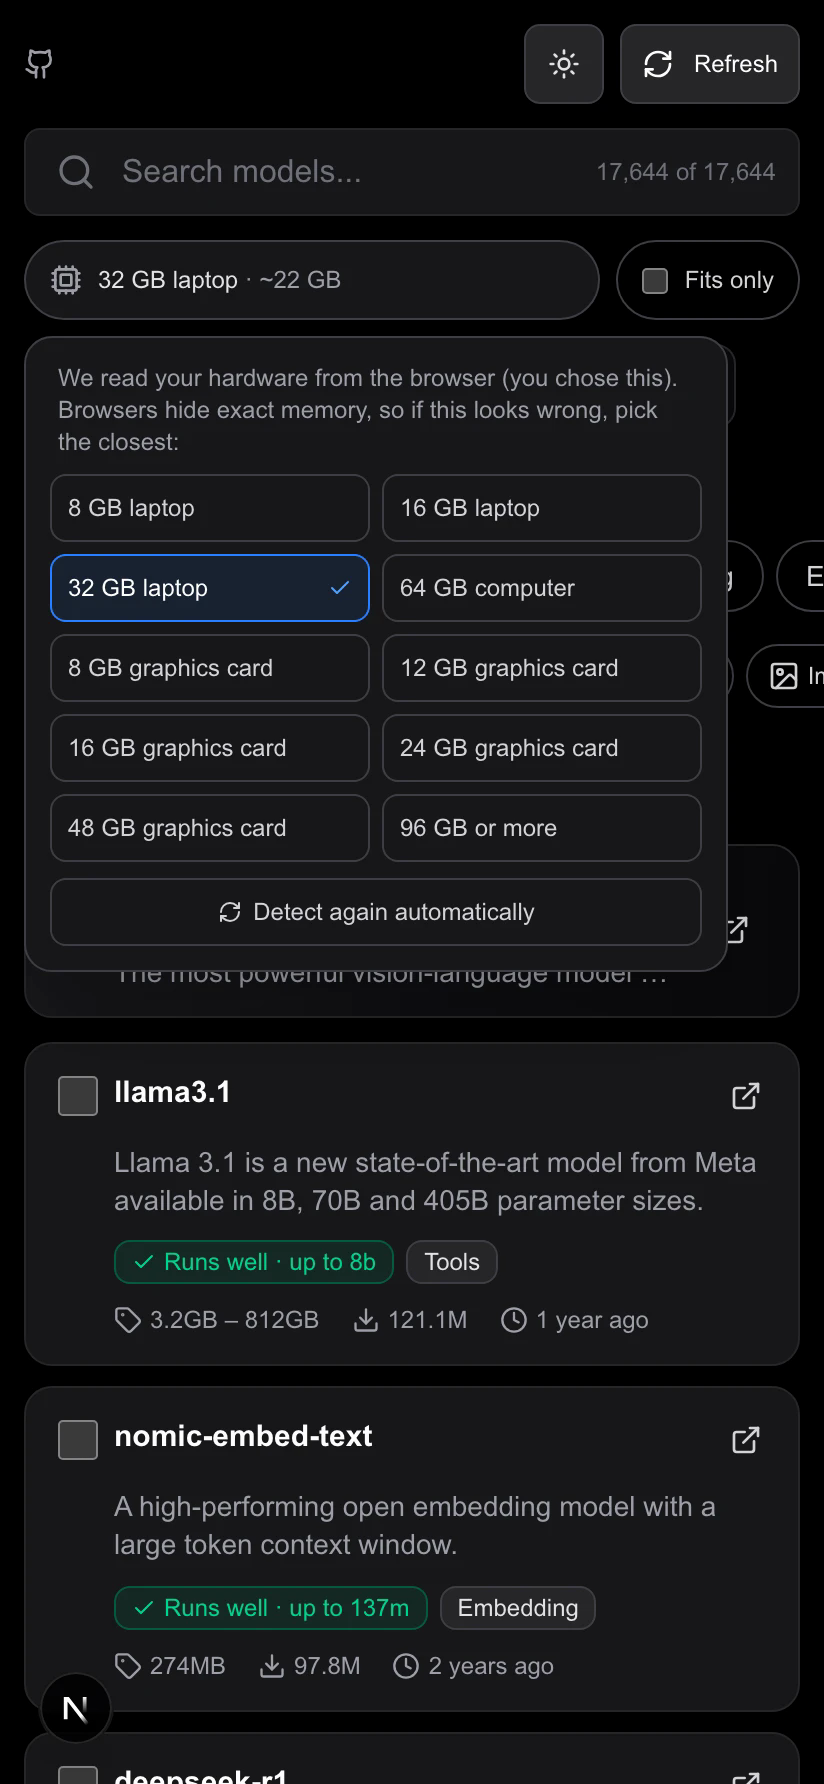
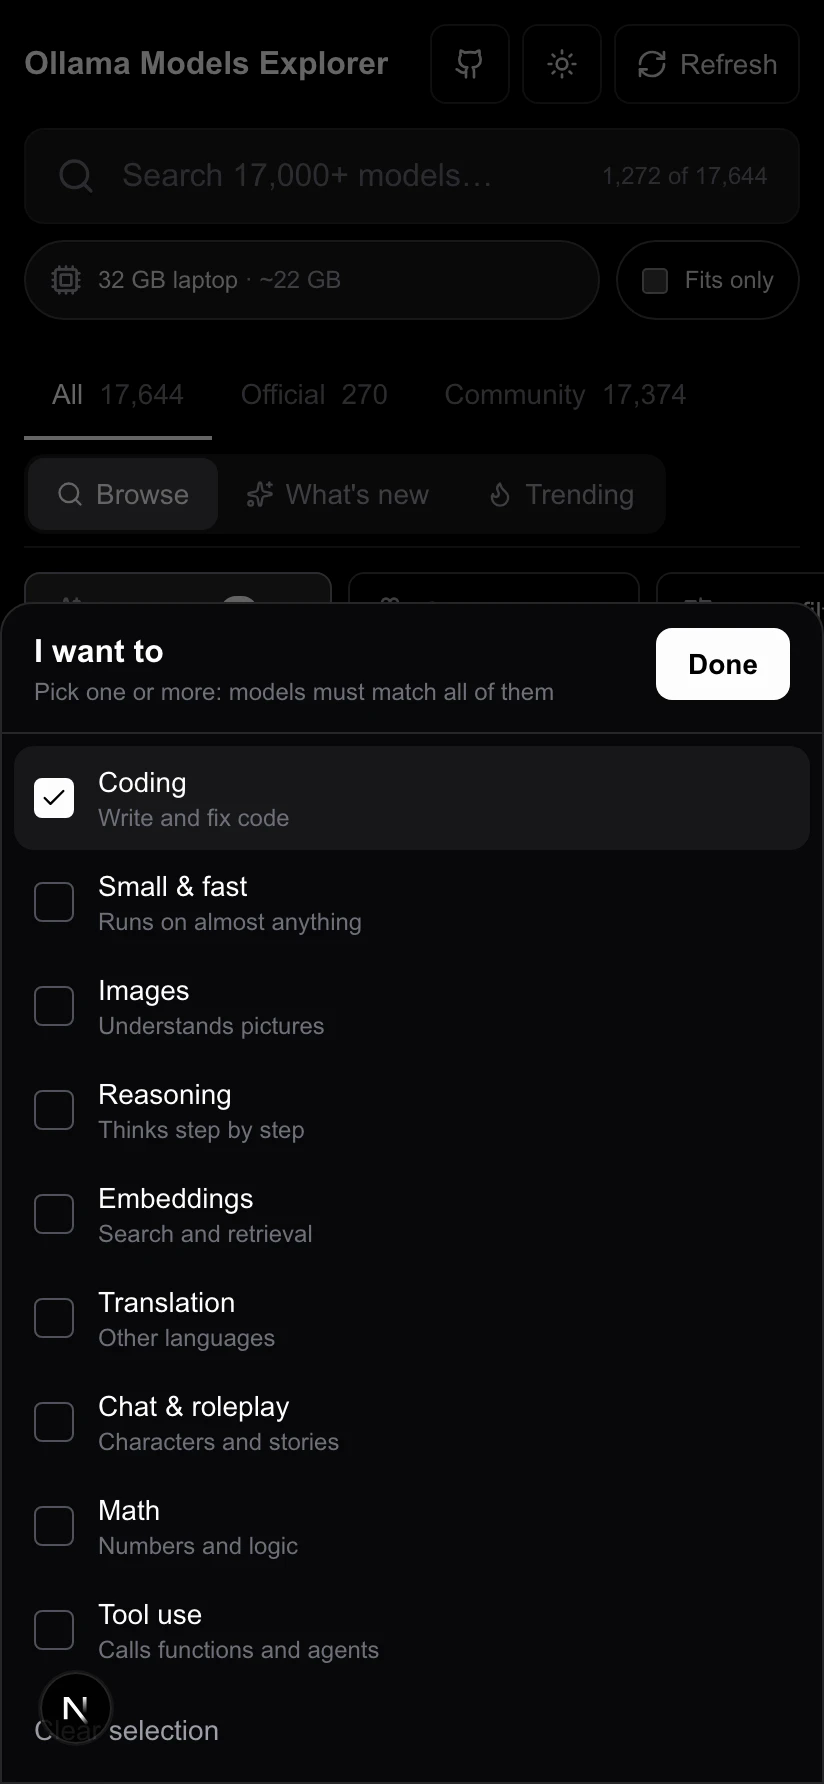
Ollama Models Explorer: new screenshots and wording for the redesign

diff --git a/apps/ollama-models-explorer.md b/apps/ollama-models-explorer.md
@@ -25,10 +25,10 @@ Ollama hosts a huge number of models, and its own site is slow to scan. Ollama M
 
 1. **Every model on Ollama.** The 270 official models, plus more than 17,000 community models uploaded by other people (named `user/model`). Switch between **All**, **Official** and **Community**.
 2. **Will it run on my computer?** The page works out your graphics card or Apple chip by itself, so you type nothing. Each model is marked **Runs well**, **Tight fit**, **Too big** or **Cloud**. If the guess is off, one tap picks the closest computer. One switch hides everything that will not run.
-3. **Quick picks** for what you want to do: Coding, Small and fast, Images, Reasoning, Embeddings, Translation, Chat and roleplay, Math, Tool use.
+3. **"I want to" picks**: Coding, Small and fast, Images, Reasoning, Embeddings, Translation, Chat and roleplay, Math, Tool use. Pick several at once and every model must match all of them.
 4. **Compare** up to four models side by side: sizes, context window, downloads, last update, and whether each runs on your computer.
 5. **What's new and Trending.** See models added or updated in the last two weeks, and what is rising.
-6. **Search and filters.** Search by any words. Filter by capability, how recently a model was updated, size, context window, or publisher, and hide near-duplicate community copies. Sort by downloads, update date, name, size or context.
+6. **Search and filters.** Search by any words. Filter by capabilities (also several at once), how recently a model was updated, size, context window, or publisher, and hide near-duplicate community copies. Sort by downloads, update date, name, size or context.
 7. **Search Ollama live** when you cannot find something. The saved list can be a few days old, and this asks ollama.com directly.
 8. **Share a link.** Your search, filters and comparison are saved in the address.
 9. **Made for phones.** Models become cards, filters open as a bottom sheet, comparing goes full screen, and every button is easy to tap.
